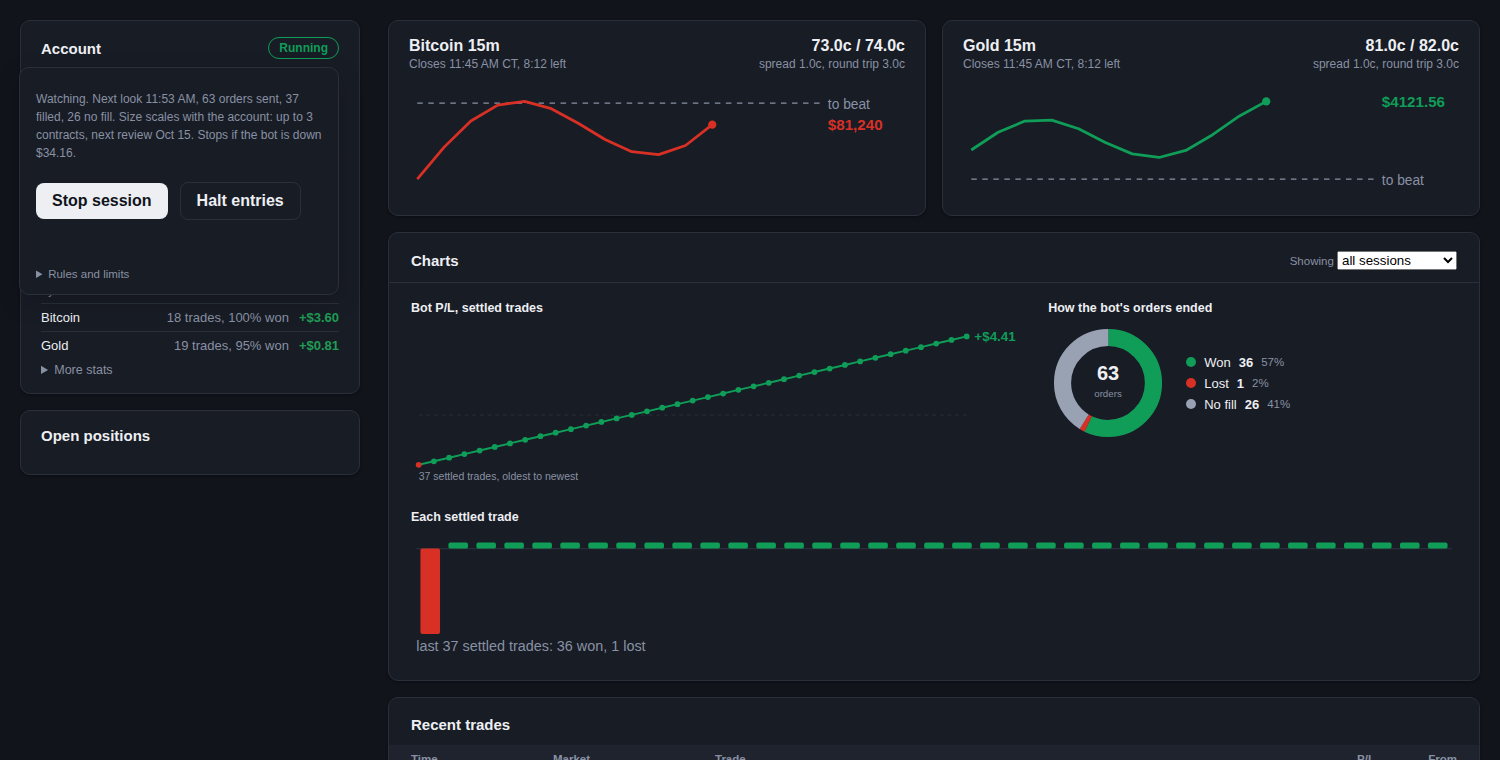
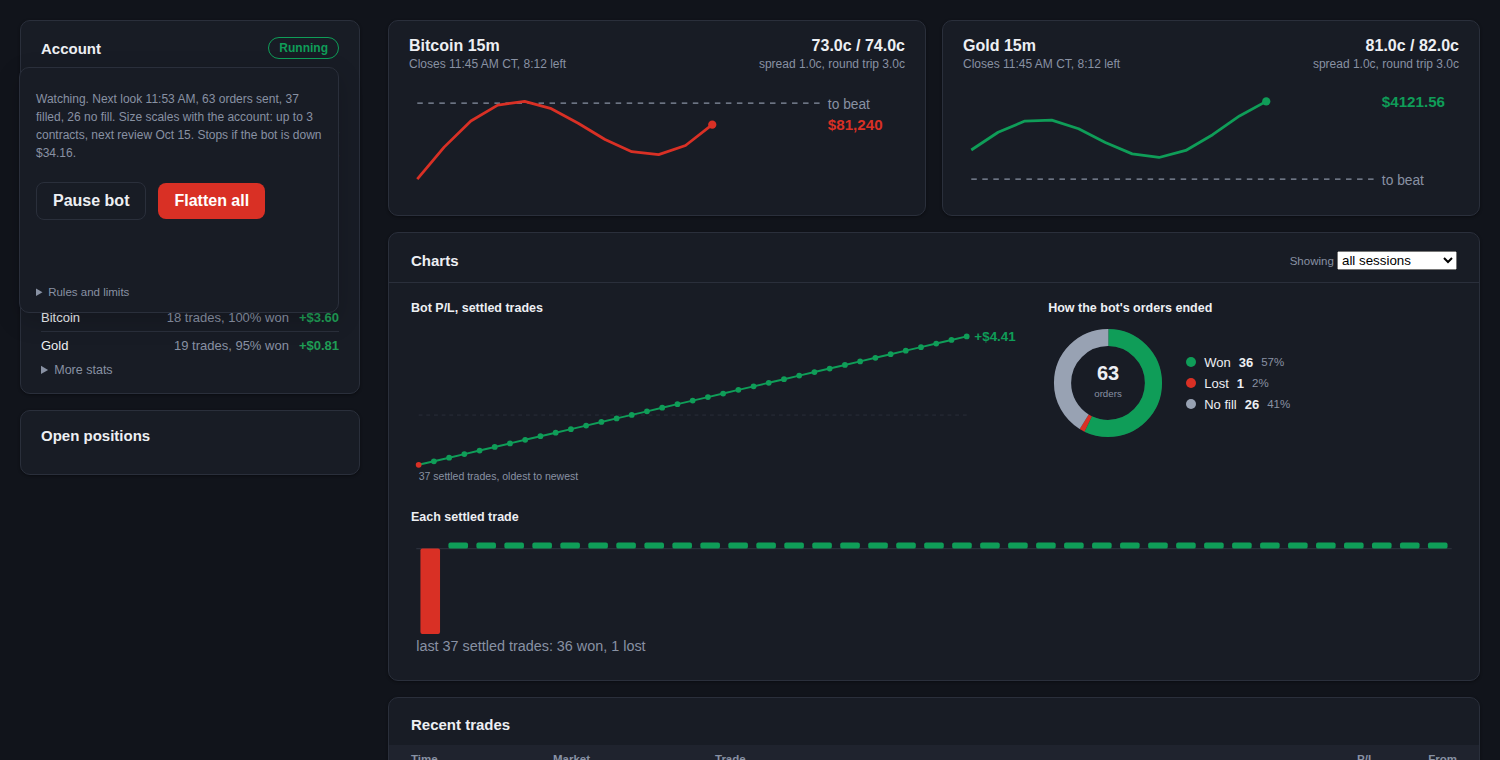
One Pause control instead of Stop and Halt, Flatten all beside it, no Kalshi title, one tile less (#327)
* One Pause control instead of Stop and Halt; Flatten all beside it; Start lifts a pause; Net tile folded into Bot since

Claude-Session: https://claude.ai/code/session_01KsSo1FHjqdsYAA4msyCP2H

* Kalshi page: remove the page title; Tools, Layout and the updated time stay in a slim row

Claude-Session: https://claude.ai/code/session_01KsSo1FHjqdsYAA4msyCP2H

---------

Changed region(s): [[0.0, 0.2421, 0.184, 0.3026], [0.0307, 0.3329, 0.092, 0.3934]]

diff --git a/index.html b/index.html
@@ -981,6 +981,7 @@
   .kal-bot-grid > .kal-span{ grid-column:1 / -1; }
   /* Console layout: a fixed rail for the session, account and positions, and one wide column for the books, the trades and the log. */
   #page-kalshi .trades-header{ padding:20px 0 14px 0; }
+  #page-kalshi .kal-header-bare{ justify-content:flex-end; padding:8px 0 10px 0; }
   .kal-console{ grid-template-columns:340px minmax(0,1fr); gap:16px 28px; align-items:start; }
   .kal-rail, .kal-main{ display:flex; flex-direction:column; gap:16px; min-width:0; }
   .kal-console .kal-card{ margin-bottom:0; }
@@ -3382,18 +3383,10 @@
 
   <!-- ================= SETTINGS ================= -->
   <main class="page" id="page-kalshi" hidden>
-    <div class="trades-header">
-      <div>
-        <div class="trades-title">Kalshi</div>
-      </div>
+    <div class="trades-header kal-header-bare">
       <div class="trades-header-right"><span class="kal-status" id="kalStatus"></span>
         <details class="kal-layout" id="kalTools"><summary class="kal-mini">Tools &#9662;</summary>
           <div class="kal-layout-body kal-tools-body">
-<div class="kal-flatten">
-            <div class="kal-actions"><button class="kal-btn kal-btn-danger" id="kalFlatten" type="button">Flatten all + halt</button>
-              <span id="kalFlattenConfirm" hidden><span class="kal-note">Stops the bot, then SELLS every open position in the account (the bot's and any you opened by hand) at whatever the book pays right now. Real money, takes the loss at the bid. Do it?</span> <button class="kal-btn kal-btn-danger" id="kalFlattenYes" type="button">Yes, flatten everything</button> <button class="kal-btn" id="kalFlattenNo" type="button">Cancel</button></span></div>
-            <div class="kal-note" id="kalFlattenMsg"></div>
-          </div>
                     <div class="kal-actions"><button class="kal-btn" id="kalAcctRefresh" type="button">Refresh account</button> <button class="kal-btn kal-btn-ghost" id="kalDiagCopy" type="button">Copy order diagnostics</button></div>
           <div class="kal-note" id="kalDiagMsg"></div>
           <textarea id="kalDiagBox" class="kal-input" rows="6" style="display:none;width:100%" readonly></textarea>
@@ -3435,10 +3428,12 @@
               <div id="kalL1Status" class="kal-note">Not running.</div>
               <div class="kal-actions">
                 <button class="kal-btn" id="kalL1Start" type="button">Start bot</button>
-          <span id="kalL1Confirm" hidden><span class="kal-note">Start it? The server will place REAL orders by itself, around the clock until you stop it or a stop ends it, one contract at a time (up to $2.00 each) unless you tick the box.</span> <label class="kal-note"><input type="checkbox" id="kalL1Sizing"> Scale size with the account (one contract per $85 of balance, up to 10, raised one step every 3 days at most; stop at 10% of the balance at the last review)</label> <label class="kal-note"><input type="checkbox" id="kalL1Trailing"> Stop follows the high point (ends the session if the bot gives back the stop amount from its best settled result, so gains are protected too)</label> <button class="kal-btn" id="kalL1Yes" type="button">Yes, start it</button> <button class="kal-btn" id="kalL1No" type="button">Cancel</button></span>
-                <button class="kal-btn" id="kalL1Stop" type="button" hidden>Stop session</button>
+          <span id="kalL1Confirm" hidden><span class="kal-note">Start it? The server will place REAL orders by itself, around the clock until you pause it or a stop ends it (this also lifts a pause), one contract at a time (up to $2.00 each) unless you tick the box.</span> <label class="kal-note"><input type="checkbox" id="kalL1Sizing"> Scale size with the account (one contract per $85 of balance, up to 10, raised one step every 3 days at most; stop at 10% of the balance at the last review)</label> <label class="kal-note"><input type="checkbox" id="kalL1Trailing"> Stop follows the high point (ends the session if the bot gives back the stop amount from its best settled result, so gains are protected too)</label> <button class="kal-btn" id="kalL1Yes" type="button">Yes, start it</button> <button class="kal-btn" id="kalL1No" type="button">Cancel</button></span>
                 <button class="kal-btn kal-btn-ghost" id="kalBotHalt" type="button" hidden></button>
+                <button class="kal-btn kal-btn-danger" id="kalFlatten" type="button">Flatten all</button>
+                <span id="kalFlattenConfirm" hidden><span class="kal-note">Pauses the bot, then SELLS every open position in the account (the bot's and any you opened by hand) at whatever the book pays right now. Real money, takes the loss at the bid. Do it?</span> <button class="kal-btn kal-btn-danger" id="kalFlattenYes" type="button">Yes, flatten everything</button> <button class="kal-btn" id="kalFlattenNo" type="button">Cancel</button></span>
               </div>
+              <div class="kal-note" id="kalFlattenMsg"></div>
               <div class="kal-note" id="kalL1Msg"></div>
               <span class="kal-note" id="kalBotHaltMsg"></span>
               <details class="kal-fold"><summary class="kal-lbl">Rules and limits</summary>
@@ -9971,11 +9966,12 @@
     var tile = function(k, v, cls){ return '<div class="kal-tile"><span class="kal-lbl">' + esc(k) + '</span><b class="' + (cls || '') + '">' + esc(v) + '</b></div>'; };
     var pct = function(x){ return Math.round(x * 100) + '%'; };
     var streak = st.streak.kind ? st.streak.n + ' ' + (st.streak.kind === 'win' ? (st.streak.n === 1 ? 'win' : 'wins') : (st.streak.n === 1 ? 'loss' : 'losses')) : 'none';
-    var main = tile('Settled trades', String(st.n)) + tile('Net', sg(st.total), st.total >= 0 ? 'kal-pos' : 'kal-neg') +
-      tile('Win rate', pct(st.winRate) + ' (' + st.wins + ' / ' + st.losses + ')') +
+    // Net is the "Bot since" line above on the account card, so it is not a tile here; per trade takes its place.
+    var main = tile('Settled trades', String(st.n)) + tile('Win rate', pct(st.winRate) + ' (' + st.wins + ' / ' + st.losses + ')') +
+      tile('Profit factor', st.profitFactor === null ? 'no losses yet' : st.profitFactor.toFixed(2)) +
       tile('Average win', st.avgWin === null ? 'none yet' : sg(st.avgWin), 'kal-pos') + tile('Average loss', st.avgLoss === null ? 'none yet' : sg(st.avgLoss), st.avgLoss === null ? '' : 'kal-neg') +
-      tile('Profit factor', st.profitFactor === null ? 'no losses yet' : st.profitFactor.toFixed(2));
-    var more = tile('Per trade', sg(st.expectancy), st.expectancy >= 0 ? 'kal-pos' : 'kal-neg') +
+      tile('Per trade', sg(st.expectancy), st.expectancy >= 0 ? 'kal-pos' : 'kal-neg');
+    var more = tile('Net', sg(st.total), st.total >= 0 ? 'kal-pos' : 'kal-neg') +
       tile('Best / worst', sg(st.best) + ' / ' + sg(st.worst)) + tile('Deepest drawdown', st.maxDrawdown > 0 ? '-' + money(st.maxDrawdown) : 'none') +
       tile('Streak now', streak) + tile('Longest losing run', String(st.longestLoss));
     var table = function(title, rows){
@@ -10331,7 +10327,7 @@
     if(haltUnset){ el.innerHTML += '<div class="kal-warn">The halt setting has never been saved, and the live scan treats that as halted. Press Halt, then Resume, once.</div>'; }
     var btn = document.getElementById('kalBotHalt');
     btn.hidden = !currentUserIsAdmin;
-    btn.textContent = halted ? 'Resume entries' : 'Halt entries';
+    btn.textContent = halted ? 'Resume bot' : 'Pause bot';
 
     var tot = kalshiLiveTotals(a, kalshiLiveOrders);
     var totEl = document.getElementById('kalBotTotals');
@@ -10450,7 +10446,7 @@
     var switchOff = !!(kalshiLiveAcct && kalshiLiveAcct.liveSwitch === false);
     var pill = document.getElementById('kalL1Pill');
     pill.className = 'kal-pill' + (switchOff ? ' bad' : (halted ? ' warn' : (running ? ' on' : '')));
-    pill.textContent = switchOff ? 'Order switch OFF' : (halted ? 'Halted' : (running ? 'Running' : 'Not running'));
+    pill.textContent = switchOff ? 'Order switch OFF' : (halted ? 'Paused' : (running ? 'Running' : 'Not running'));
     var oc = kalshiOutcomeCounts(kalshiResolveOrders(kalshiLiveOrders, kalshiLiveAcct && kalshiLiveAcct.results), s && Number.isFinite(s.since) ? s.since : 0);
     var base = s && Number.isFinite(s.sizeBase) ? s.sizeBase : (s ? s.startCash : NaN);   // the balance at the last review, once the server has made one
     var stopAt = s && s.sizing === true && Number.isFinite(base) ? '$' + (0.10 * base).toFixed(2) : '$10.00';
@@ -10461,8 +10457,7 @@
     var endedEv = kalshiLiveEvents.filter(function(e){ return e && e.kind === 'session ended'; })[0];
     document.getElementById('kalL1Status').textContent = running ? (s.lastNote || '') + (doneLine ? ' ' + doneLine : '') + (sizeText ? ' ' + sizeText : '') : 'Not running.' + (s && s.endedBecause ? ' Last ended: ' + s.endedBecause + (s.ordersSent ? ' after ' + s.ordersSent + ' orders.' : '.') : '') + (endedEv && endedEv.detail ? ' ' + String(endedEv.detail) : '');
     document.getElementById('kalL1Start').hidden = running;
-    document.getElementById('kalL1Stop').hidden = !running;
-    if(running){ document.getElementById('kalL1Confirm').hidden = true; }
+        if(running){ document.getElementById('kalL1Confirm').hidden = true; }
     renderKalshiCharts();
   }
   var kalshiLiveOrders = [];
@@ -10508,7 +10503,7 @@
           (rows.length ? rows.map(function(x){ return kalshiShortTicker(x.ticker) + ': ' + x.status + (x.detail ? ' (' + x.detail + ')' : ''); }).join('. ') : 'No open positions.') + '. The bot is halted and its session is stopped.';
         msg.textContent = line;
       }).catch(function(err){
-        msg.textContent = 'Could not reach the server: ' + ((err && err.message) || 'unknown') + '. Check the Kalshi app and press Halt entries here.';
+        msg.textContent = 'Could not reach the server: ' + ((err && err.message) || 'unknown') + '. Check the Kalshi app and press Pause bot here.';
       }).then(function(){ yes.disabled = false; ask(false); });
     });
   })();
@@ -10656,7 +10651,7 @@
   // Starting the bot asks twice: the first click only asks, the confirm click is the only one that starts it.
   (function(){
     var start = document.getElementById('kalL1Start'), box = document.getElementById('kalL1Confirm'), msg = document.getElementById('kalL1Msg');
-    var yes = document.getElementById('kalL1Yes'), no = document.getElementById('kalL1No'), stop = document.getElementById('kalL1Stop');
+    var yes = document.getElementById('kalL1Yes'), no = document.getElementById('kalL1No');
     function ask(on){ box.hidden = !on; start.hidden = on; }
     start.addEventListener('click', function(){ msg.textContent = ''; ask(true); });
     no.addEventListener('click', function(){ ask(false); });
@@ -10666,17 +10661,14 @@
       yes.disabled = no.disabled = true;
       msg.textContent = 'Starting...';
       api.kalshiL1Session(true, document.getElementById('kalL1Sizing').checked, document.getElementById('kalL1Trailing').checked).then(function(){
+        // Starting is the owner's word that the bot should trade, so a pause left on (after Flatten, for one) is lifted with it.
+        var wasPaused = kalshiBotState.control && kalshiBotState.control.halt !== false;
+        return wasPaused && api.setKalshiHalt ? api.setKalshiHalt(false) : null;
+      }).then(function(){
         msg.textContent = 'Started. You can close this page: the server does the trading.';
       }).catch(function(err){
         msg.textContent = 'Not started: ' + ((err && err.message) || 'unknown');
       }).then(function(){ yes.disabled = no.disabled = false; ask(false); renderKalshiL1(); });
-    });
-    stop.addEventListener('click', function(){
-      var api = window.__shwoopAPI;
-      if(!api || !api.kalshiL1Session || !currentUserIsAdmin){ return; }
-      api.kalshiL1Session(false).then(function(){ msg.textContent = 'Stopped. Open positions settle on their own.'; }).catch(function(err){
-        msg.textContent = 'Could not stop: ' + ((err && err.message) || 'unknown');
-      });
     });
   })();
 

diff --git a/test/kalshiLayoutGates.test.js b/test/kalshiLayoutGates.test.js
@@ -52,7 +52,7 @@ gates.Y5 = () => {
   const main = seg.slice(seg.indexOf('<div class="kal-main">'));
   assert.deepStrictEqual(names(main), ['books', 'performance', 'trades'], 'the main column: books tiles, the charts and the trades (the bot card is gone; its controls sit in the account card)');
   const acct = /data-card="account">([\s\S]*?)\n      <div class="kal-card" data-card="positions">/.exec(rail[1])[1];
-  for (const id of ['kalL1Pill', 'kalL1Start', 'kalL1Stop', 'kalBotHalt', 'kalL1Status']) assert.ok(acct.indexOf('id="' + id + '"') > -1, id + ' lives in the account card, so start, stop and halt are always on screen');
+  for (const id of ['kalL1Pill', 'kalL1Start', 'kalBotHalt', 'kalFlatten', 'kalL1Status']) assert.ok(acct.indexOf('id="' + id + '"') > -1, id + ' lives in the account card, so start, pause and flatten are always one click away');
   assert.ok(/data-card="account">\s*<div class="kal-card-head kal-acct-head">[\s\S]*?id="kalL1Pill"/.test(rail[1]), 'the running pill sits at the top right of the account card');
   assert.ok(!/data-card="session"/.test(html), 'there is no separate bot card any more');
   const perf = /data-card="performance">([\s\S]*?)\n      <div class="kal-card kal-card-flush" data-card="trades">/.exec(main)[1];

diff --git a/test/kalshiSignalGates.test.js b/test/kalshiSignalGates.test.js
@@ -89,7 +89,7 @@ gates.G21 = () => {
     'the halt switch writes exactly { halt, at } to the control document');
   assert.ok(!/data-kal-tab|kalTabJournal|kalTabLive/.test(html), 'the Kalshi page is one page now: no tabs, no journal');
   assert.ok(/function kalshiOnShow\(\)\{ startKalshiBot\(\); startKalshiPoll\(\); \}/.test(html), 'opening the page starts the bot view and the books');
-  assert.ok(/pill\.textContent = switchOff \? 'Order switch OFF' : \(halted \? 'Halted'/.test(html), 'the halt must show on the pill at once');
+  assert.ok(/pill\.textContent = switchOff \? 'Order switch OFF' : \(halted \? 'Paused'/.test(html), 'the halt must show on the pill at once');
   assert.ok(/var haltUnset = !kalshiBotState\.control \|\| kalshiBotState\.control\.halt === undefined;/.test(html) && /if\(haltUnset\)\{ el\.innerHTML \+= '<div class="kal-warn">The halt setting has never been saved, and the live scan treats that as halted/.test(html), 'an unsaved halt setting must not read as "not halted"');
   assert.ok(/if\(halted && !window\.confirm\(/.test(html), 'resuming entries must ask first');
   assert.ok(/function kalshiOnHide\(\)\{ stopKalshiPoll\(\); stopKalshiBot\(\); \}/.test(html), 'leaving the page must stop listening');

diff --git a/test/kalshiFlattenGates.test.js b/test/kalshiFlattenGates.test.js
@@ -84,7 +84,8 @@ gates.F4 = () => {
 // The button: in the Tools menu, first in it, asks twice, and the menu no longer claims it cannot change anything.
 gates.F5 = () => {
   const tools = /id="kalTools"[\s\S]*?<\/details>\s*<details class="kal-layout" id="kalLayout"/.exec(html)[0];
-  assert.ok(tools.indexOf('id="kalFlatten"') > -1 && tools.indexOf('id="kalFlatten"') < tools.indexOf('id="kalAcctRefresh"'), 'first thing in Tools');
+  const menu = /id="kalBotMenu"[\s\S]*?id="kalBotHaltMsg"/.exec(html)[0];
+  assert.ok(menu.indexOf('id="kalFlatten"') > menu.indexOf('id="kalBotHalt"') && tools.indexOf('id="kalFlatten"') < 0, 'one place for the bot controls: Flatten sits with Pause in the Running menu, not in Tools');
   assert.ok(/id="kalFlattenConfirm" hidden/.test(html) && /go\.addEventListener\('click', function\(\)\{ ask\(true\); \}\)/.test(html), 'the first click only asks');
   assert.ok(/kalshiFlattenAll\(\)/.test(html.slice(html.indexOf("var yes = document.getElementById('kalFlattenYes')"))), 'only the confirm click sends');
   assert.ok(!/it cannot place or change anything/.test(tools), 'the menu does not claim to be read only');

diff --git a/test/kalshiL1Gates.test.js b/test/kalshiL1Gates.test.js
@@ -352,7 +352,8 @@ gates.N13 = () => {
   assert.ok(/kalL1Start'\)[\s\S]{0,400}addEventListener\('click', function\(\)\{ msg\.textContent = ''; ask\(true\); \}\)/.test(html), 'the first click only asks');
   const yes = html.slice(html.indexOf("yes.addEventListener('click', function(){\n      var api = window.__shwoopAPI;\n      if(!api || !api.kalshiL1Session"));
   assert.ok(/api\.kalshiL1Session\(true, document\.getElementById\('kalL1Sizing'\)\.checked, document\.getElementById\('kalL1Trailing'\)\.checked\)/.test(yes.slice(0, 800)), 'the confirm click starts it');
-  assert.ok(/id="kalL1Stop"/.test(html) && /api\.kalshiL1Session\(false\)/.test(html), 'there is a stop button');
+  assert.ok(!/id="kalL1Stop"/.test(html) && /id="kalBotHalt"/.test(html), 'one control stops entries (Pause, which can be resumed); there is no separate stop button');
+  assert.ok(/api\.setKalshiHalt\(false\)/.test(html.slice(html.indexOf("var wasPaused"))), 'starting lifts a pause left on, so Start after a Flatten is one step');
   assert.ok(/httpsCallable\(functions, 'kalshiL1Session'\)/.test(html));
 };
 

diff --git a/docs/PROJECT_OVERVIEW.md b/docs/PROJECT_OVERVIEW.md
@@ -28,12 +28,12 @@ This document is mostly about the Kalshi subsystem, because it is where most of 
 - Orders cannot duplicate. The order id derives from the market, so two server instances during a deploy produce the same id and Kalshi refuses the second.
 - The bot stops itself when its own trades over the last 24 hours are down $10 (or 10% of the balance at the last weekly review). Open orders count as lost. Manual trades do not count. After a stop it stays off until restarted.
 - It fails closed: an unreadable balance, an unreadable order list, an unsaved size review, or a lost order answer all mean no order that minute.
-- More than 200 orders in 24 hours pauses it. A halt switch pauses entries. **Flatten all + halt** (Tools menu) halts first, then sells every open position, one order each, never retried.
+- More than 200 orders in 24 hours pauses it. A halt switch pauses entries. **Flatten all** (in the Running menu, next to **Pause bot**) pauses first, then sells every open position, one order each, never retried. Pause and Resume are the one everyday control; Start also lifts a pause left on after a Flatten.
 - Live credentials can only exist for the admin account, enforced in `firestore.rules`. Every function checks the admin first.
 
 ## The Kalshi page (admin only)
 
-Account card (balance, bot change since start, stat tiles, by market, a Running menu that holds Start, Stop and Halt), live books with a small chart per market (Bitcoin and gold price against the "to beat" line), charts (profit and loss, how orders ended, each settled trade), recent trades, open positions. Tools and Layout menus in the header. Times are shown in US Central. Mock-ups are in `docs/mockups/` (fixture data, not live figures).
+Account card (balance, bot change since start, stat tiles, by market, a Running menu that holds Start, Pause or Resume, and Flatten all), live books with a small chart per market (Bitcoin and gold price against the "to beat" line), charts (profit and loss, how orders ended, each settled trade), recent trades, open positions. Tools and Layout menus in the header. Times are shown in US Central. Mock-ups are in `docs/mockups/` (fixture data, not live figures).
 
 ## Research method
 

diff --git a/docs/CAREER_PORTFOLIO.md b/docs/CAREER_PORTFOLIO.md
@@ -8,7 +8,7 @@ I built and operate a small automated trading system end to end: a single-file w
 
 ## Résumé bullets (pick what fits the role)
 
-- Designed and shipped an automated trading bot for Kalshi 15 minute markets running 24/7 against a live account, with order idempotency across overlapping deploys, a rolling 24 hour loss stop, fail-closed behavior on any unreadable state, and an emergency "flatten all + halt".
+- Designed and shipped an automated trading bot for Kalshi 15 minute markets running 24/7 against a live account, with order idempotency across overlapping deploys, a rolling 24 hour loss stop, fail-closed behavior on any unreadable state, and an emergency "flatten all" that pauses before it sells.
 - Built a research harness with a falsification-first process: every hypothesis registered with a counterparty, numeric prediction and kill criteria before any code runs; 2,580 variants tested, none passing the pre-set bar, and the result reported as such.
 - Found and fixed a class of error in my own tooling: a skim rule that looked sensible but banked $150 on a net loss, caught by replaying it on 69 days of history before it shipped.
 - Maintained a quality bar without a test framework: about 55 plain-node test files plus Python research tests, static checks of a 15,000 line single-file frontend, and a hand-run mutation check (66 mutants, 53 killed, 9 real gaps closed).

diff --git a/docs/ROADMAP.md b/docs/ROADMAP.md
@@ -34,7 +34,7 @@ Last refreshed: 2026-10-08 (US Central). Now / Next / Later, with the gate for e
 
 ## Done recently (2026-10-07 and 2026-10-08)
 
-- 24/7 bot, weekly size scaling, reinvest and skim, Flatten all + halt, deposit recorder.
+- 24/7 bot, weekly size scaling, reinvest and skim, Flatten all, deposit recorder, and one Pause/Resume control in place of separate Stop and Halt buttons.
 - Performance tracker, readable open positions, simplified Kalshi page, market charts, Central time.
 - Exit, band, entry-side and fee studies; sizing replay; the cheap-side test (all falsified).
 - Security review fixes; hand-run mutation check of the money code.
